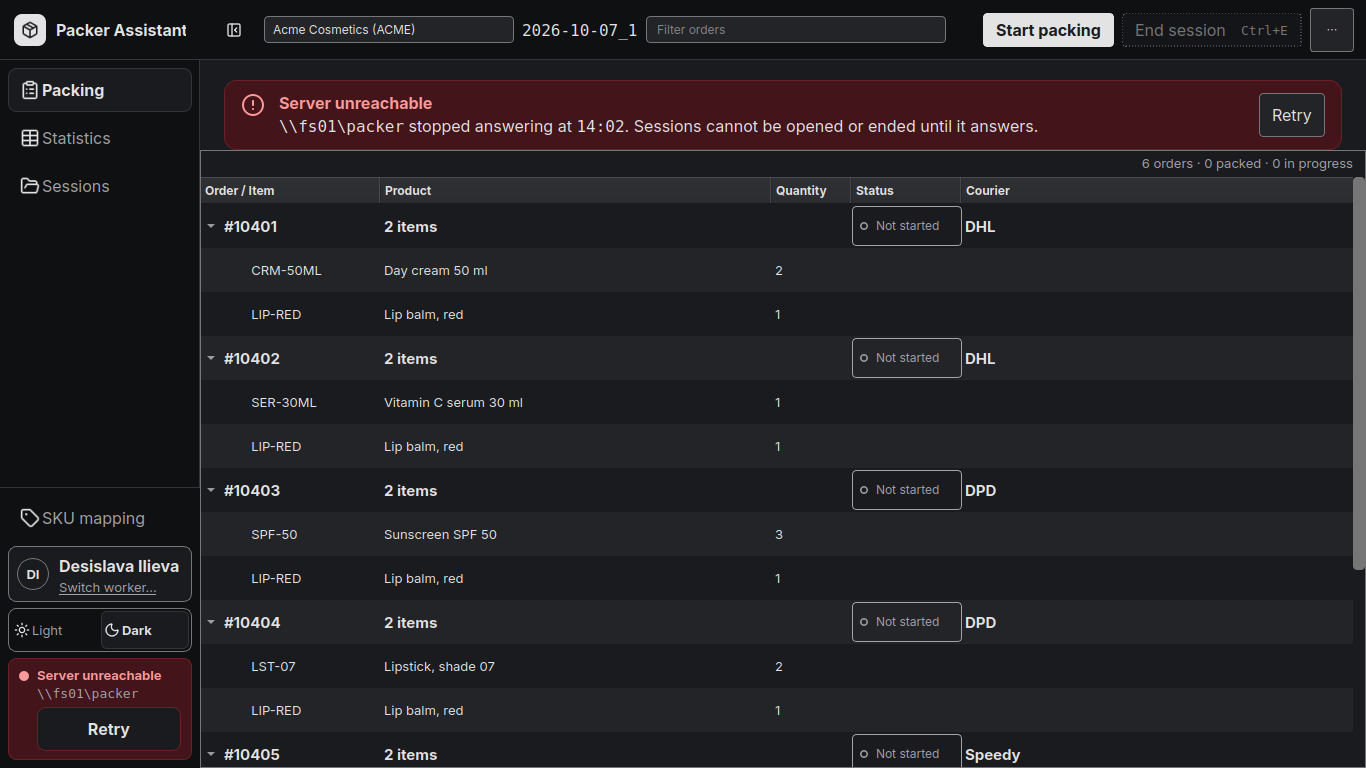
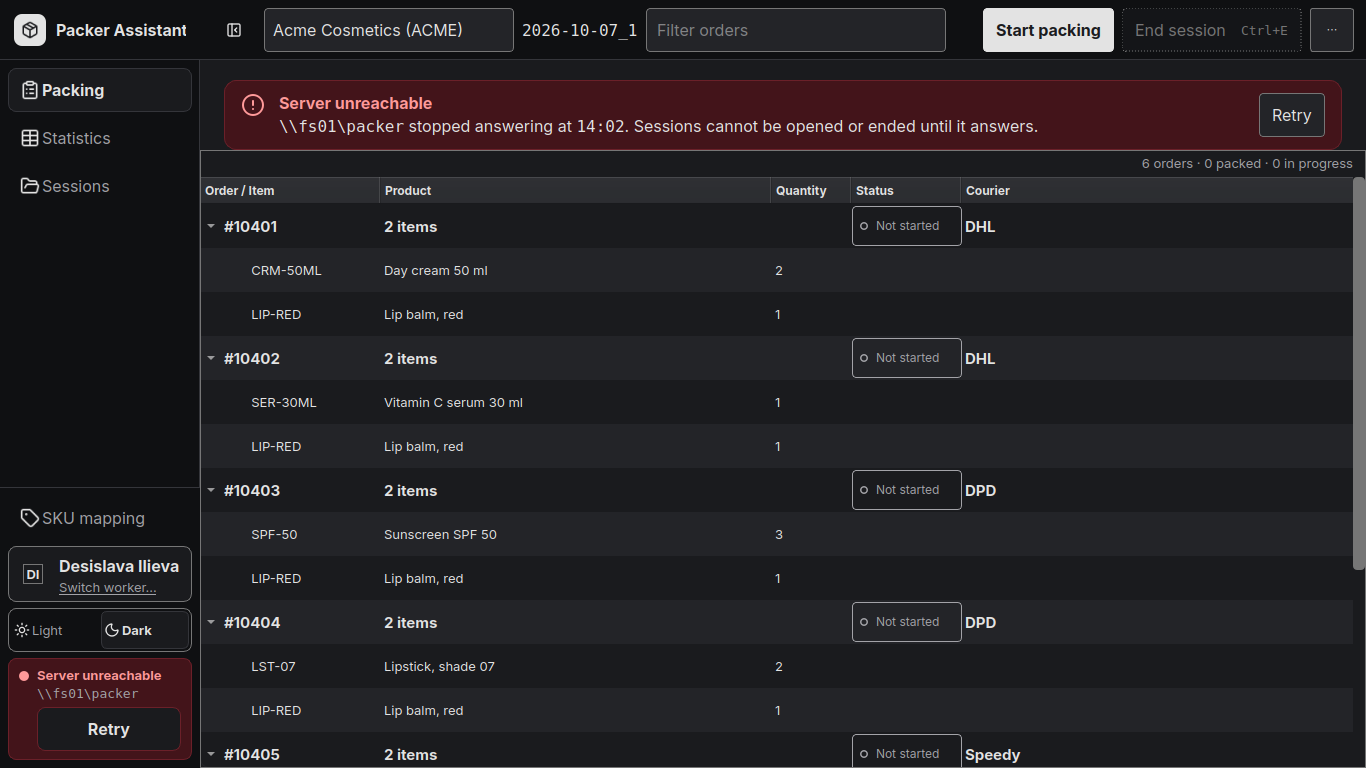
fix(shell): review fixes; render script no longer touches the saved server
- scripts/render_shell.py redirected only IniFormat, so QSettings(org, app)
  still read this PC's saved server path and the script wrote its synthetic
  clients there. Redirect both formats, drop FULFILLMENT_SERVER_PATH, and
  refuse to render unless the server is the temp folder. Renders redone.
- Starting a new list when the work folder cannot be made (a dead share)
  now reports the failure and checks the connection.
- Command bar controls are 44px with body type (ADR 0002 floor density).
- Ctrl+1/2/3 do nothing in Packer Mode.
- Collapsed worker avatar is a 44px target.
- Tests: work-folder failure, failed session end, shortcuts in Packer Mode,
  bar control heights; the window-outlives-the-check test now deletes the
  window while the check is still running.
- Spec: departures 11-16 and two more "For shared/" items. ADR 0001 points
  at ADR 0002. Unused CONNECTION_STATES and toggle_theme removed.

Claude-Session: https://claude.ai/code/session_01YZdP9RQkzh677cH1jhzbNY

diff --git a/tests/test_connection_state.py b/tests/test_connection_state.py
@@ -150,24 +150,66 @@ def test_end_session_is_disabled_while_down(main_window_with_list, qtbot, reach)
     assert window.packer_mode_button.isEnabled()  # Start packing stays live
 
 
-def test_a_check_that_outlives_the_window_does_not_raise(config_ini, qapp, reach):
-    """The worker thread emits on a QObject that may be gone."""
+def test_a_work_folder_that_cannot_be_made_reports_and_checks(
+    main_window, qtbot, reach, monkeypatch, tmp_path
+):
+    """Starting a new list on a dead share fails before the session start."""
+    from packing_tool.session_manager import SessionManager
+
+    def gone(self, **_kwargs):
+        raise OSError("share is gone")
+
+    monkeypatch.setattr(SessionManager, "get_packing_work_dir", gone)
+    said = []
+    monkeypatch.setattr(QMessageBox, "critical", lambda *a, **k: said.append(a[1:]))
+    reach["ok"] = False
+    main_window._start_or_resume_from_browser(
+        "TESTCL", "DHL_Orders", tmp_path, tmp_path / "DHL_Orders.json",
+    )
+    qtbot.waitUntil(lambda: main_window._connection_state == "down", timeout=3000)
+    assert len(said) == 1 and "share is gone" in said[0][1]
+    assert main_window.logic is None
+
+
+def test_a_failed_session_end_checks_the_server(
+    main_window_with_list, qtbot, reach, monkeypatch, tmp_path
+):
+    window = main_window_with_list
+    blocker = tmp_path / "not_a_folder"
+    blocker.write_text("")
+    window.current_work_dir = str(blocker)  # reports/ cannot be made under a file
+    monkeypatch.setattr(QMessageBox, "critical", lambda *a, **k: None)
+    reach["ok"] = False
+    window.end_session()
+    qtbot.waitUntil(lambda: window._connection_state == "down", timeout=3000)
+    assert not window.connection_banner.isHidden()
+
+
+def test_a_check_that_outlives_the_window_does_not_raise(
+    config_ini, qapp, monkeypatch
+):
+    """The worker thread emits on a QObject that is gone by then."""
     import threading
+
+    import shiboken6
 
     from packing_tool.profile_manager import ProfileManager
 
+    release = threading.Event()
+
+    def slow(_path, _timeout=5):
+        release.wait(3)
+        return True
+
+    monkeypatch.setattr(mw, "test_path_reachable", slow)
     ProfileManager(config_path=str(config_ini)).create_client_profile("ALPHA", "Alpha")
     window = mw.MainWindow(config_path=str(config_ini))
     errors = []
-    monkeypatch_hook = threading.excepthook
-    threading.excepthook = lambda args: errors.append(args.exc_value)
-    try:
-        window.check_connection()
-        window.deleteLater()
-        qapp.processEvents()
-        for thread in threading.enumerate():
-            if thread.name == "connection-check":
-                thread.join(3)
-    finally:
-        threading.excepthook = monkeypatch_hook
+    monkeypatch.setattr(threading, "excepthook", lambda args: errors.append(args.exc_value))
+    window.check_connection()
+    shiboken6.delete(window)
+    release.set()
+    for thread in threading.enumerate():
+        if thread.name == "connection-check":
+            thread.join(3)
     assert errors == []

diff --git a/gui/command_bar.py b/gui/command_bar.py
@@ -28,6 +28,8 @@ from shared.icons import icon
 from shared.theme import font_css, on_theme_changed, set_button_role
 
 BAR_HEIGHT = 60
+# Floor density (ADR 0002). Set here: the app sheet does not size controls yet.
+CONTROL_HEIGHT = 44
 PAGES = ("packing", "statistics", "browser")
 _CLIENT_WIDTH = 250
 _FILTER_MIN, _FILTER_MAX = 170, 300
@@ -67,7 +69,7 @@ class CommandBar(QWidget):
         self.sidebar_button = QToolButton(self)
         self.sidebar_button.setObjectName("cmdbarSidebarToggle")
         self.sidebar_button.setAutoRaise(True)
-        self.sidebar_button.setFixedSize(44, 44)
+        self.sidebar_button.setFixedSize(CONTROL_HEIGHT, CONTROL_HEIGHT)
         self.sidebar_button.clicked.connect(self.sidebarToggled.emit)
         layout.addWidget(self.sidebar_button)
 
@@ -105,6 +107,14 @@ class CommandBar(QWidget):
             self.end_session_button,
         ):
             layout.addWidget(button)
+        for control in (
+            self.client_combo,
+            self.filter_input,
+            self.open_session_button,
+            self.start_packing_button,
+            self.end_session_button,
+        ):
+            control.setFixedHeight(CONTROL_HEIGHT)
 
         # The shortcut, drawn inside End session at its right edge. A child
         # label, because a QPushButton's text has one font.
@@ -119,7 +129,7 @@ class CommandBar(QWidget):
         self.overflow = OverflowMenu(self)
         self.overflow_button = overflow_button(self.overflow, self)
         self.overflow_button.setToolTip("More")
-        self.overflow_button.setFixedSize(44, 44)
+        self.overflow_button.setFixedSize(CONTROL_HEIGHT, CONTROL_HEIGHT)
         layout.addWidget(self.overflow_button)
 
         self._page = "packing"
@@ -141,6 +151,7 @@ class CommandBar(QWidget):
             f" border: none; border-radius: 8px; }}"
             f" QToolButton#cmdbarSidebarToggle:hover {{"
             f" background-color: {tokens.surface_raised}; }}"
+            f" QComboBox, QLineEdit {{ {font_css('body')} }}"
             f" QLabel#cmdbarKbd {{ background: transparent;"
             f" font-family: {tokens.font_family_mono}; {font_css('caption')} }}"
         )

diff --git a/gui/components/sidebar.py b/gui/components/sidebar.py
@@ -31,7 +31,6 @@ from shared.theme import current_tokens, font_css, on_theme_changed
 
 SIDEBAR_WIDTH = 200
 ITEM_HEIGHT = 44
-CONNECTION_STATES = ("ok", "checking", "down")
 # state -> (label, the status role whose colours it wears)
 _CONNECTION = {
     "ok": ("Server connected", "success"),
@@ -166,7 +165,8 @@ class Sidebar(QWidget):
         # Worker, collapsed: the avatar is the button.
         self.worker_rail_button = QToolButton(self.footer)
         self.worker_rail_button.setObjectName("WorkerRailButton")
-        self.worker_rail_button.setFixedSize(32, 32)
+        # A 44px target; the sheet's 6px margin draws the 32px avatar in it.
+        self.worker_rail_button.setFixedSize(ITEM_HEIGHT, ITEM_HEIGHT)
         self.worker_rail_button.clicked.connect(self.switchWorkerRequested.emit)
         footer.addWidget(self.worker_rail_button, 0, Qt.AlignHCenter)
 
@@ -360,7 +360,7 @@ class Sidebar(QWidget):
             f"#WorkerCard QLabel {{ background: transparent; }}"
             f"#WorkerAvatar {{ background-color: {t.surface_raised};"
             f" border: 1px solid {t.border_strong}; border-radius: 16px;"
-            f" color: {t.text}; {font_css('caption', bold=True)} }}"
+            f" margin: 6px; color: {t.text}; {font_css('caption', bold=True)} }}"
             f"#WorkerName {{ color: {t.text}; {font_css('body', bold=True)} }}"
             f"#WorkerLink {{ background: transparent; border: none; padding: 0;"
             f" min-height: 0; text-align: left; text-decoration: underline;"
@@ -368,7 +368,7 @@ class Sidebar(QWidget):
             f"#WorkerLink:hover {{ color: {t.text}; }}"
             f"#WorkerRailButton {{ background-color: {t.surface};"
             f" border: 1px solid {t.border_strong}; border-radius: 16px;"
-            f" color: {t.text}; {font_css('caption', bold=True)} }}"
+            f" margin: 6px; color: {t.text}; {font_css('caption', bold=True)} }}"
             f"#ThemeSegment {{ background-color: {t.surface_sunken};"
             f" border: 1px solid {t.border}; border-radius: 8px; }}"
             f"#ThemeSegment QToolButton {{ background-color: transparent;"

diff --git a/gui/main_window.py b/gui/main_window.py
@@ -559,8 +559,10 @@ class MainWindow(QMainWindow):
             shortcut.activated.connect(lambda p=page: self._go_to_page(p))
 
     def _go_to_page(self, page: int):
-        """Ctrl+1/2/3. Nothing to go to until a client is chosen."""
-        if self.current_client_id:
+        """Ctrl+1/2/3. Nothing to go to until a client is chosen, and not
+        from Packer Mode: the page behind it would change unseen."""
+        in_shell = self.stacked_widget.currentWidget() is self.session_widget
+        if self.current_client_id and in_shell:
             self.session_tabs.setCurrentIndex(page)
 
     def _setup_order_tree(self):
@@ -2358,9 +2360,21 @@ class MainWindow(QMainWindow):
             )
 
         if work_dir is None:
-            work_dir = self.session_manager.get_packing_work_dir(
-                session_path=str(session_path), packing_list_name=packing_list_name
-            )
+            try:
+                work_dir = self.session_manager.get_packing_work_dir(
+                    session_path=str(session_path), packing_list_name=packing_list_name
+                )
+            except OSError as e:
+                # The usual way a packer first meets an outage: the work
+                # folder cannot be made on a share that has gone away.
+                logger.exception("Could not create the packing work directory")
+                QMessageBox.critical(
+                    self,
+                    "Session Error",
+                    f"Could not start packing {packing_list_name}:\n\n{e}",
+                )
+                self.check_connection()
+                return
             logger.info(f"Work directory created: {work_dir}")
 
         # Use unified session start method

diff --git a/scripts/render_shell.py b/scripts/render_shell.py
@@ -105,15 +105,21 @@ def main(argv: list[str]) -> int:
 
     with tempfile.TemporaryDirectory() as raw:
         tmp = Path(raw)
-        # Before any QSettings is made: keep this PC's saved theme and client.
-        QSettings.setDefaultFormat(QSettings.IniFormat)
-        QSettings.setPath(QSettings.IniFormat, QSettings.UserScope, str(tmp / "settings"))
+        # Before any QSettings is made: keep this PC's saved theme, client and
+        # server path. Both formats, as tests/conftest.py does: QSettings(org,
+        # app) is NativeFormat, and a saved server path outranks config.ini.
+        for fmt in (QSettings.NativeFormat, QSettings.IniFormat):
+            QSettings.setPath(fmt, QSettings.UserScope, str(tmp / "settings"))
+        os.environ.pop("FULFILLMENT_SERVER_PATH", None)
 
         app = QApplication.instance() or QApplication(sys.argv[:1])
         from gui.theme import apply_theme, load_saved_theme
 
         load_saved_theme(app)
         window, open_session = build(tmp)
+        base = Path(window.profile_manager.base_path).resolve()
+        if not base.is_relative_to(tmp.resolve()):
+            raise RuntimeError(f"refusing to render against {base}: not the temp server")
         window.show()
         # The card and the banner show the mockup's path, not the temp folder.
         real_set = window.sidebar.set_connection

diff --git a/gui/theme.py b/gui/theme.py
@@ -2,7 +2,7 @@
 
 Kept as its own module (rather than importing shared.theme directly at
 every call site) so packing-tool/main.py's existing
-`from gui.theme import load_saved_theme, toggle_theme` keeps working unchanged.
+`from gui.theme import load_saved_theme` keeps working unchanged.
 """
 
 from PySide6.QtCore import QSettings
@@ -28,7 +28,6 @@ __all__ = [
     "apply_theme",
     "current_tokens",
     "load_saved_theme",
-    "toggle_theme",
 ]
 
 # A station that has not been told otherwise is a scan station (spec E2).
@@ -52,14 +51,6 @@ def load_saved_theme(app: QApplication) -> str:
     theme = settings.value("current_theme", THEME_DARK)
     apply_theme(app, theme)
     return theme
-
-
-def toggle_theme(app: QApplication) -> str:
-    settings = QSettings("PackingTool", "Theme")
-    current = settings.value("current_theme", THEME_DARK)
-    new_theme = THEME_LIGHT if current == THEME_DARK else THEME_DARK
-    apply_theme(app, new_theme)
-    return new_theme
 
 
 def current_tokens() -> ThemeTokens:

diff --git a/tests/test_no_client.py b/tests/test_no_client.py
@@ -127,6 +127,14 @@ def test_ctrl_1_2_3_switch_pages(main_window):
     assert main_window.session_tabs.currentIndex() == PAGE_PACKING
 
 
+def test_the_shortcuts_do_nothing_in_packer_mode(main_window):
+    """The scanner owns Packer Mode: the page behind it must not change."""
+    main_window.switch_to_packer_mode()
+    _shortcut(main_window, "Ctrl+3").activated.emit()
+    assert main_window.session_tabs.currentIndex() == PAGE_PACKING
+    assert main_window.stacked_widget.currentWidget() is main_window.packer_mode_widget
+
+
 def test_the_shortcuts_do_nothing_without_a_client(config_ini, qapp, remembered):
     window = _window(config_ini, ["ALPHA", "BETA"])
     try:

diff --git a/tests/test_command_bar.py b/tests/test_command_bar.py
@@ -29,6 +29,15 @@ def test_the_bar_is_floor_height(bar):
     assert bar.height() == BAR_HEIGHT == 60
 
 
+def test_its_controls_are_floor_height(bar):
+    """ADR 0002: 44px controls. The app sheet does not size them yet."""
+    for control in (
+        bar.client_combo, bar.filter_input, bar.open_session_button,
+        bar.start_packing_button, bar.end_session_button,
+    ):
+        assert control.height() == 44, control
+
+
 def test_the_controls_run_in_the_mockups_order(bar):
     layout = bar.layout()
     order = [layout.itemAt(i).widget() for i in range(layout.count())]

diff --git a/gui/session_browser/sessions_list_widget.py b/gui/session_browser/sessions_list_widget.py
@@ -290,7 +290,7 @@ class SessionsListWidget(QWidget):
 
     resume_session_requested = Signal(dict)
     start_packing_requested = Signal(dict)
-    sessions_shown = Signal(int, int)  # (shown, total) -- for the status bar
+    sessions_shown = Signal(int, int)  # (shown, total) -- for the page's caption line
     session_details_requested = Signal(
         dict
     )  # entry data, for the browser's detail page

diff --git a/docs/superpowers/specs/2026-10-08-ui-refresh-phase1-shell-design.md b/docs/superpowers/specs/2026-10-08-ui-refresh-phase1-shell-design.md
@@ -227,12 +227,22 @@ and title bar, so a 1366×768 minimum could not fit the screen it is designed fo
 | 8 | Disabled filter and selector: dashed edge on `control_disabled_bg` | the app sheet's disabled input (solid `border_subtle` edge) | `build_stylesheet` gives the dashed treatment to buttons only |
 | 9 | Packing and Statistics content of frames 2a to 2e (page header, totals strip, index table) | today's Qt pages | phases 3 to 5 |
 | 10 | End session becomes primary when the list is complete (frame 3g) | stays secondary | belongs to Packing, phase 3 |
+| 11 | Destination icon and label 12px apart | about 3px | `NavRail`'s own sheet, as row 7 |
+| 12 | Checked Light/Dark segment edged in `border` | `border_subtle` | matches the current destination (row 7), so the two selected states agree |
+| 13 | Collapsed connection glyph: the dot sits in a `surface_sunken` ring | no ring | the dot is a child label over a `QToolButton`; a ring is a second widget for 2px, left for the web tier |
+| 14 | Banner glyph centred on the two lines | aligned with the title line | reads as the title's icon when the sentence wraps at 1280px |
+| 15 | Collapsed theme button shows the current theme's glyph | the glyph of the theme it switches to | section 6.2: a single button is an action, and its tooltip says "Switch to ..." |
+| 16 | Retry while unreachable keeps the banner until the answer | the banner goes and Open/End session are live while the check runs (at most `ConnectionTimeout` seconds), as the mockup's own `retry` state does | one state machine with three states; a session action tried in that window fails into the same check |
 
 ## 8. For shared/
 
 To raise on Fulfilment's side; nothing here blocks this phase.
 
-- `NavRail`: an item-height parameter (floor density needs 44px), and no plane on a disabled checked item.
+- `NavRail`: an item-height parameter (floor density needs 44px), the icon-to-label gap, and no plane on a
+  disabled checked item. Until then `FloorNavRail` overrides `_shape` and `_apply_theme`, and `Sidebar` reads
+  `rail._buttons` (to disable destinations) and `rail.layout()` (item spacing): four private touch points.
+- `build_stylesheet`: size `QPushButton`, `QComboBox` and `QLineEdit` from the density profile's
+  `control_content_height`. Today the command bar sets 44px on its own controls.
 - `Toast`: the mockup's inverse variant and a bottom-centre placement.
 - Icons: `package-check`, `scan-barcode`, `triangle-alert`, `search`.
 - `build_stylesheet`: the dashed disabled treatment for `QLineEdit` and `QComboBox`.

diff --git a/docs/adr/0001-packer-mode-on-the-web-tier.md b/docs/adr/0001-packer-mode-on-the-web-tier.md
@@ -1,6 +1,7 @@
 # ADR 0001 — Packer Mode's document renders on the web tier
 
-- **Status:** accepted, 2026-09-17.
+- **Status:** accepted, 2026-09-17. Its "no third web screen" limit is replaced by
+  [ADR 0002](0002-every-screen-on-the-web-tier.md); the scanner invariant stands.
 - **Deciders:** repo owner
 - **Supersedes:** the scope line of shopify-fulfillment-tool ADR 0001
   ("Packing Tool stays entirely Qt").
